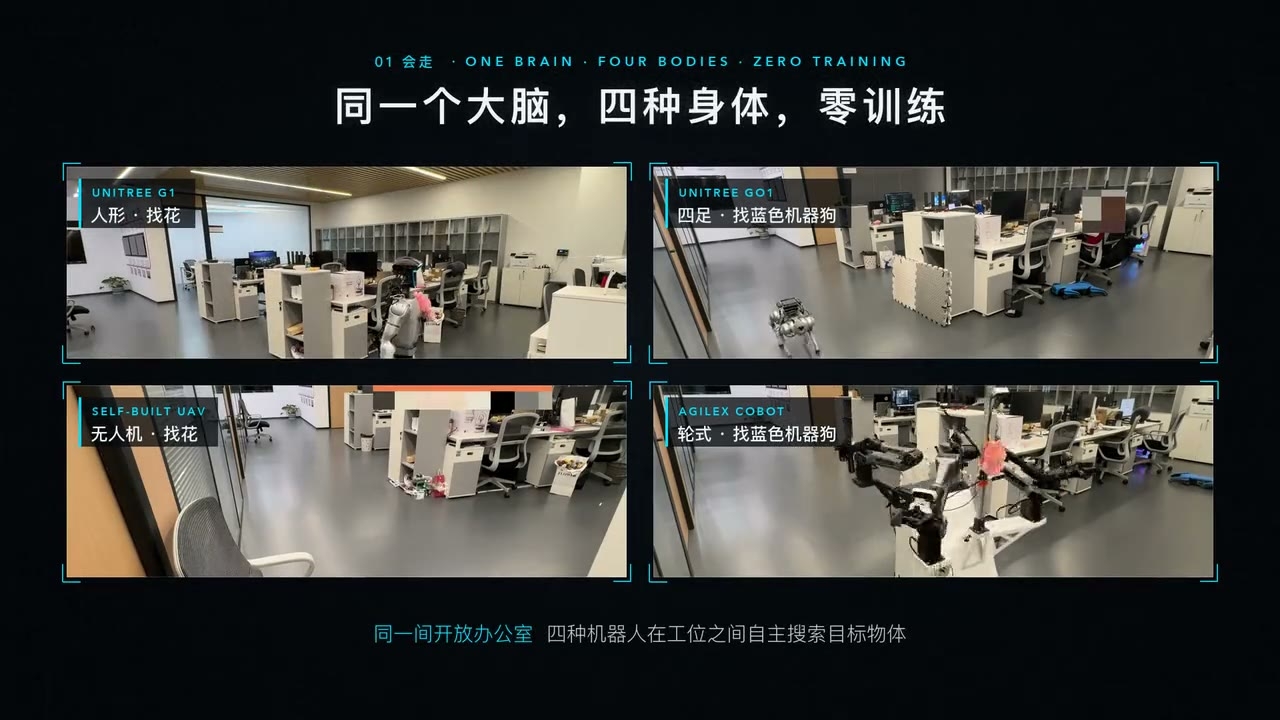
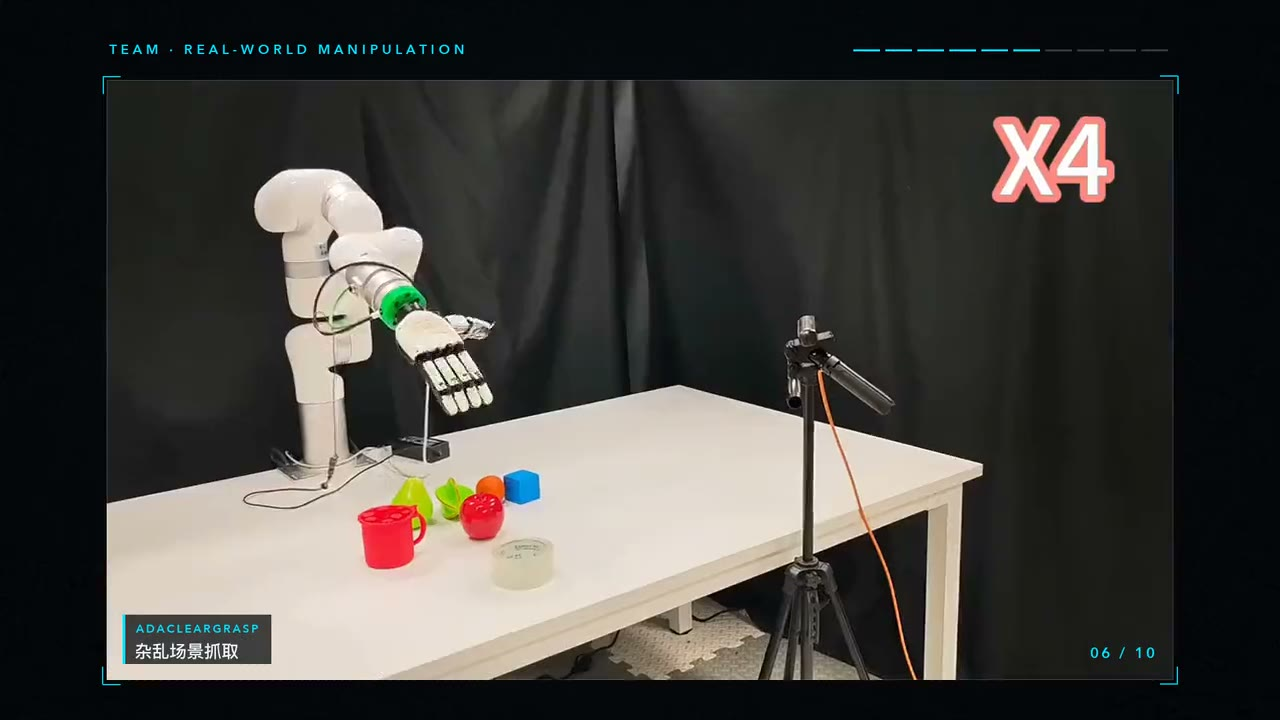
content: /lavira/ DingTalk Sans wordmark, second de-AI pass
Wordmark 'LaViRA × RSI' set in DingTalk Sans (subset woff2 inlined).
Remaining slogans replaced with plain descriptions; film poster is a
real-robot frame.

diff --git a/lavira/index.html b/lavira/index.html
@@ -4,16 +4,17 @@
 <meta charset="utf-8">
 <meta name="viewport" content="width=device-width, initial-scale=1, viewport-fit=cover">
 <title>LaViRA × RSI</title>
-<meta name="description" content="LaViRA × RSI：免训练的具身决策软件，导航与操作共用一套程序，已在人形、四足、无人机、轮式四种机器人上运行。">
+<meta name="description" content="LaViRA × RSI 是免训练的具身决策软件，负责机器人导航和双臂操作，已在人形、四足、无人机和轮式机器人上运行。">
 <meta property="og:type" content="website">
 <meta property="og:title" content="LaViRA × RSI">
-<meta property="og:description" content="免训练的具身决策软件：导航和操作共用一套程序，已在人形、四足、无人机、轮式四种机器人上跑通。南京大学 · 中国科学院自动化研究所">
+<meta property="og:description" content="免训练的具身导航与操作决策软件，已在人形、四足、无人机和轮式机器人上运行。南京大学 · 中国科学院自动化研究所">
 <meta property="og:image" content="https://hongyuding.site/lavira/media/hero_reel.jpg">
 <meta property="og:url" content="https://hongyuding.site/lavira/">
 <link rel="canonical" href="https://hongyuding.site/lavira/">
 <link rel="icon" type="image/png" href="../assets/images/site-icon.png">
 <style>:root{padding-top:env(safe-area-inset-top,0px);padding-bottom:env(safe-area-inset-bottom,0px)}body{margin:0}img,video{max-width:100%}[hidden]{display:none!important}</style>
 <style>
[1 lines of base64/hex data omitted]
 :root{
   --bg:#f8f9fa;--surface:#ffffff;--surface-2:#f1f3f4;
   --fg:#202124;--ink:#1b1f24;--muted:#5f6368;--soft:#686d72;
@@ -79,8 +80,8 @@ p{margin:0}
 /* nav */
 .nav{position:fixed;top:calc(env(safe-area-inset-top,0px) + 12px);left:0;right:0;z-index:20}
 .nav-pill{max-width:min(1140px,100%);margin-inline:auto;display:flex;align-items:center;gap:12px;padding:6px 6px 6px 18px;border-radius:999px;background:var(--nav-bg);backdrop-filter:saturate(1.6) blur(18px);-webkit-backdrop-filter:saturate(1.6) blur(18px);border:1px solid var(--line);box-shadow:var(--nav-shadow)}
-.brand{font-weight:700;color:var(--ink);white-space:nowrap;font-size:15px;letter-spacing:.01em}
-.brand b{color:var(--accent);font-weight:700}
+.brand{font-family:"DingTalk Sans",var(--font);font-weight:400;color:var(--ink);white-space:nowrap;font-size:16px;letter-spacing:0}
+.brand b{color:var(--accent);font-weight:400}
 .brand:hover{text-decoration:none}
 .nav-links{display:flex;gap:2px;margin-left:auto;overflow-x:auto;scrollbar-width:none;min-width:0}
 .nav-links::-webkit-scrollbar{display:none}
@@ -99,8 +100,8 @@ p{margin:0}
 .cover-body{position:absolute;left:0;right:0;bottom:0;z-index:2;padding:clamp(22px,4vw,56px);max-width:50rem}
 .kicker{font-family:var(--mono);font-size:13px;font-weight:600;letter-spacing:.14em;text-transform:uppercase;color:var(--accent)}
 .cover .kicker{color:var(--on-media-muted);font-family:var(--font);letter-spacing:.06em}
-.cover h1{color:var(--on-media);font-size:clamp(44px,8vw,96px);line-height:1.02;font-weight:800;letter-spacing:-.025em;margin-top:12px}
-.cover h1 b{color:var(--on-media-muted);font-weight:500}
+.cover h1{font-family:"DingTalk Sans",var(--font);color:var(--on-media);font-size:clamp(44px,8vw,96px);line-height:1.02;font-weight:400;letter-spacing:0;margin-top:12px}
+.cover h1 b{color:var(--on-media-muted);font-weight:400}
 .cover .sub{color:var(--on-media-muted);font-size:clamp(15px,1.6vw,19px);margin-top:16px;max-width:38rem}
 .btns{display:flex;flex-wrap:wrap;gap:10px;margin-top:24px}
 .btn{display:inline-flex;align-items:center;gap:8px;padding:10px 18px;border-radius:999px;font-size:15px;font-weight:600;border:1px solid transparent;cursor:pointer;font-family:var(--font);line-height:1.2}
@@ -325,7 +326,7 @@ footer .col-wide{display:flex;justify-content:space-between;gap:12px;flex-wrap:w
     <div class="cover-body">
       <p class="kicker">南京大学 · 中国科学院自动化研究所</p>
       <h1>LaViRA <b>×</b> RSI</h1>
-      <p class="sub">一套免训练的具身决策软件，导航和操作用同一套程序，已在人形、四足、无人机和轮式四种机器人上跑通。</p>
+      <p class="sub">免训练的具身决策软件，负责导航和双臂操作，已在人形、四足、无人机和轮式机器人上运行。</p>
       <div class="btns">
         <a class="btn btn-solid" href="https://arxiv.org/abs/2605.27582" target="_blank" rel="noopener">论文 arXiv ↗</a>
         <a class="btn btn-glass" href="#explore">看演示</a>
@@ -348,12 +349,12 @@ footer .col-wide{display:flex;justify-content:space-between;gap:12px;flex-wrap:w
   <div class="col-wide">
     <div class="sec-head">
       <p class="kicker">Overview</p>
-      <h2 id="ov-t">进门就会找，上手就会做</h2>
+      <h2 id="ov-t">三层决策结构</h2>
     </div>
     <div class="ov">
       <div class="abstract">
-        <p>LaViRA 把机器人的决策拆成三层，每层只让大模型输出它在预训练里见得最多的东西：文字、图像中的位置和代码。关节力矩和连续轨迹交给局部规划与控制，所以整套系统不用机器人训练数据，模型权重也不更新。导航和双臂操作共用这套流程。</p>
-        <p>RSI 负责自我改进。编码智能体改写技能代码，评测成功率提高才保留，回归测试检查旧技能，改动可以回滚。大模型只给子目标，局部控制每步不到 10 毫秒；每次决策都留有文字记录，可以回放。四种机器人的接入合计约 40 人时（科研环境）。</p>
+        <p>LaViRA 把机器人的决策拆成三层，大模型在各层分别输出文字、图像中的位置和代码。关节力矩和连续轨迹交给局部规划与控制，整套系统不用机器人训练数据，模型权重也不更新。导航和双臂操作共用这套流程。</p>
+        <p>RSI 负责自我改进：编码智能体改写技能代码，评测成功率提高才保留；改动先过旧技能的回归测试，出了问题可以回滚。大模型只给子目标，局部控制每步不到 10 毫秒；每次决策都留有文字记录，可以回放。四种机器人的接入合计约 40 人时（科研环境）。</p>
       </div>
       <div class="layers">
         <div class="layer"><span class="tag">LA</span><h3>语言层</h3><p>把一句指令拆成待办事项。</p></div>
@@ -376,7 +377,7 @@ footer .col-wide{display:flex;justify-content:space-between;gap:12px;flex-wrap:w
     <div class="sec-head">
       <p class="kicker">Explore</p>
       <h2 id="ex-t">真机视频</h2>
-      <p class="lead">按任务分成四组。每张卡片标了平台和任务，加速播放的片段标了倍速。</p>
+      <p class="lead">每张卡片标了平台和任务，加速片段标了倍速。</p>
     </div>
 
     <div class="tabs" role="tablist" aria-label="演示分类">
@@ -445,7 +446,7 @@ footer .col-wide{display:flex;justify-content:space-between;gap:12px;flex-wrap:w
     <div class="sec-head">
       <p class="kicker">Leaderboard</p>
       <h2 id="bench-t">评测结果</h2>
-      <p class="lead">我们的数字全部是免训练结果。每一行列出该评测上的对比方法，单位为成功率 %。</p>
+      <p class="lead">Uni-LaViRA 的结果均为免训练。每一行列出该评测上的对比方法，单位为成功率 %。</p>
     </div>
 
     <div class="tabs" role="tablist" aria-label="评测分类">
@@ -474,7 +475,7 @@ footer .col-wide{display:flex;justify-content:space-between;gap:12px;flex-wrap:w
           </table>
         </div>
         <p class="fine">★ 表示同时高于最强的训练型基础模型。R2R-CE 上 60.7 与 JanusVLN 的 60.5 持平，低于 OmniNav 的 69.5。前五项为 100 条任务 × 3 个随机种子。主干包含闭源大模型；换成本地 27B 模型，仿真中约低 10 个点。来源：<a href="https://arxiv.org/abs/2605.27582" target="_blank" rel="noopener">arXiv 2605.27582</a>。</p>
-        <p class="fine">LaViRA（ICRA 2026）的 R2R-CE 零样本成功率 38.3%，发表时是零样本方法中最高的。作为参照，NavFoM 预训练用了 56 张 H100、连跑数天、1270 万条样本。</p>
+        <p class="fine">LaViRA（ICRA 2026）的 R2R-CE 零样本成功率 38.3%，发表时是零样本方法中最高的。NavFoM 的预训练用了 56 张 H100，跑了数天，用了 1270 万条样本。</p>
       </div>
     </div>
 
@@ -515,7 +516,7 @@ footer .col-wide{display:flex;justify-content:space-between;gap:12px;flex-wrap:w
             </tbody>
           </table>
         </div>
-        <p class="fine">RoboSuite 上成功率 98.3%。RSI 改写 open_drawer 技能代码后，LIBERO-10 留出的 80 条任务上成功率从 44% 升到 86%，模型权重没有改动。下一个里程碑定在第 6 个月：改进器改进自身，旧技能退化不超过 10%。</p>
+        <p class="fine">RoboSuite 上成功率 98.3%。RSI 改写 open_drawer 技能代码后，LIBERO-10 留出的 80 条任务上成功率从 44% 升到 86%，模型权重没有改动。第 6 个月的目标是让改进器改进自身，同时旧技能退化不超过 10%。</p>
       </div>
     </div>
   </div>
@@ -526,10 +527,9 @@ footer .col-wide{display:flex;justify-content:space-between;gap:12px;flex-wrap:w
     <div class="sec-head">
       <p class="kicker">News</p>
       <h2 id="news-t">动态</h2>
-      <p class="lead">按时间倒序，最上面两条是最新进展。</p>
     </div>
     <ol class="log">
-      <li><span class="d">最新</span><div><h3>Ultra-LaViRA 在双臂真机上做操作任务<span class="chip">NEW</span></h3><p>取试管、分拣、摆 “NJU”，外加全自主倒试管。</p></div></li>
+      <li><span class="d">最新</span><div><h3>Ultra-LaViRA 在双臂真机上做操作任务<span class="chip">NEW</span></h3><p>取试管、分拣、摆 “NJU”，以及全自主倒试管的长程任务。</p></div></li>
       <li><span class="d">最新</span><div><h3>人形机器人全身动作模仿<span class="chip">NEW</span></h3><p>复现 SuperMimic，真机跳完闪身步 Pro。</p></div></li>
       <li><time datetime="2026-06-02">2026-06-02</time><div><h3>宝马南京官方公众号发布 Uni-LaViRA 联合成果</h3></div></li>
       <li><time datetime="2026-03">2026-03</time><div><h3>有关单位出具无 GPS 导航应用证明</h3><p>四足语义建图与目标导航，“符合项目预期使用要求”。</p></div></li>
@@ -543,7 +543,7 @@ footer .col-wide{display:flex;justify-content:space-between;gap:12px;flex-wrap:w
     <div class="sec-head">
       <p class="kicker">Papers &amp; Ecosystem</p>
       <h2 id="papers-t">论文</h2>
-      <p class="lead">四篇主线论文，下面是团队在操作方向的其他工作和专利。</p>
+      <p class="lead">三篇主线论文和 Ultra-LaViRA 操作成果，以及团队在操作方向的其他论文和专利。</p>
     </div>
     <div class="papers">
       <article class="paper">
@@ -552,7 +552,7 @@ footer .col-wide{display:flex;justify-content:space-between;gap:12px;flex-wrap:w
       </article>
       <article class="paper">
         <img src="media/nav_drone.jpg" alt="无人机走廊导航画面" loading="lazy" width="640" height="426">
-        <div class="pb"><span class="venue">TPAMI 在审</span><h3>Uni-LaViRA</h3><p class="au">第一作者 丁泓宇</p><p>一个框架做五类任务：指令导航、目标导航、开放词汇导航、具身问答、无人机导航。</p><div class="links"><a class="pill" href="https://arxiv.org/abs/2605.27582" target="_blank" rel="noopener">arXiv 2605.27582 ↗</a></div></div>
+        <div class="pb"><span class="venue">TPAMI 在审</span><h3>Uni-LaViRA</h3><p class="au">第一作者 丁泓宇</p><p>覆盖指令导航、目标导航、开放词汇导航、具身问答和无人机导航五类任务。</p><div class="links"><a class="pill" href="https://arxiv.org/abs/2605.27582" target="_blank" rel="noopener">arXiv 2605.27582 ↗</a></div></div>
       </article>
       <article class="paper">
         <img src="media/multi_robot.jpg" alt="三机协同搜索画面" loading="lazy" width="720" height="406">
@@ -560,7 +560,7 @@ footer .col-wide{display:flex;justify-content:space-between;gap:12px;flex-wrap:w
       </article>
       <article class="paper">
         <img src="media/manip_tube.jpg" alt="双臂机器人取试管画面" loading="lazy" width="640" height="392">
-        <div class="pb"><span class="venue">Manipulation</span><h3>Ultra-LaViRA</h3><p class="au">第一作者 丁泓宇</p><p>把操作动作写成技能代码。LIBERO-PRO 78.7%，RoboSuite 98.3%，已上双臂真机。</p><div class="links"><span class="pill" aria-disabled="true">暂无公开链接</span></div></div>
+        <div class="pb"><span class="venue">真机成果</span><h3>Ultra-LaViRA</h3><p>把操作动作写成技能代码。LIBERO-PRO 78.7%，RoboSuite 98.3%，已上双臂真机。</p><div class="links"><span class="pill" aria-disabled="true">暂无公开链接</span></div></div>
       </article>
     </div>
     <div class="eco">
@@ -579,8 +579,8 @@ footer .col-wide{display:flex;justify-content:space-between;gap:12px;flex-wrap:w
     </div>
     <div class="apps">
       <div><h3>无 GPS 巡检</h3><p>楼宇内部、城市街区这类卫星信号不可靠的地方。四足建图与导航已拿到应用证明。据智研咨询，2026 年中国智能巡检机器人市场约 31.85 亿元、约 9,722 台。</p></div>
-      <div><h3>车企与工业</h3><p>与宝马（南京）合作人形机器人的语义建图与导航，导航模块已分阶段交付。</p></div>
-      <div><h3>国防异构无人系统</h3><p>人形、四足、无人机、轮式平台接同一套决策软件；三机协同实测全程本地运行国产模型，0 次云端调用。</p></div>
+      <div><h3>车企与工业</h3><p>与宝马（南京）合作人形机器人语义能力与交互研究，导航模块已分阶段交付。</p></div>
+      <div><h3>国防异构无人系统</h3><p>人形、四足、无人机和轮式平台都已接入这套决策软件。三机协同实测时，国产模型全程在本地运行，云端调用 0 次。</p></div>
     </div>
     <p class="lic"><b>交付方式：</b>本地部署的决策软件和多机看板，按台按年授权，每台每年约 2 至 3 万元<span class="chip">估算</span>；车企、园区和集成商可另做定制项目。</p>
   </div>
